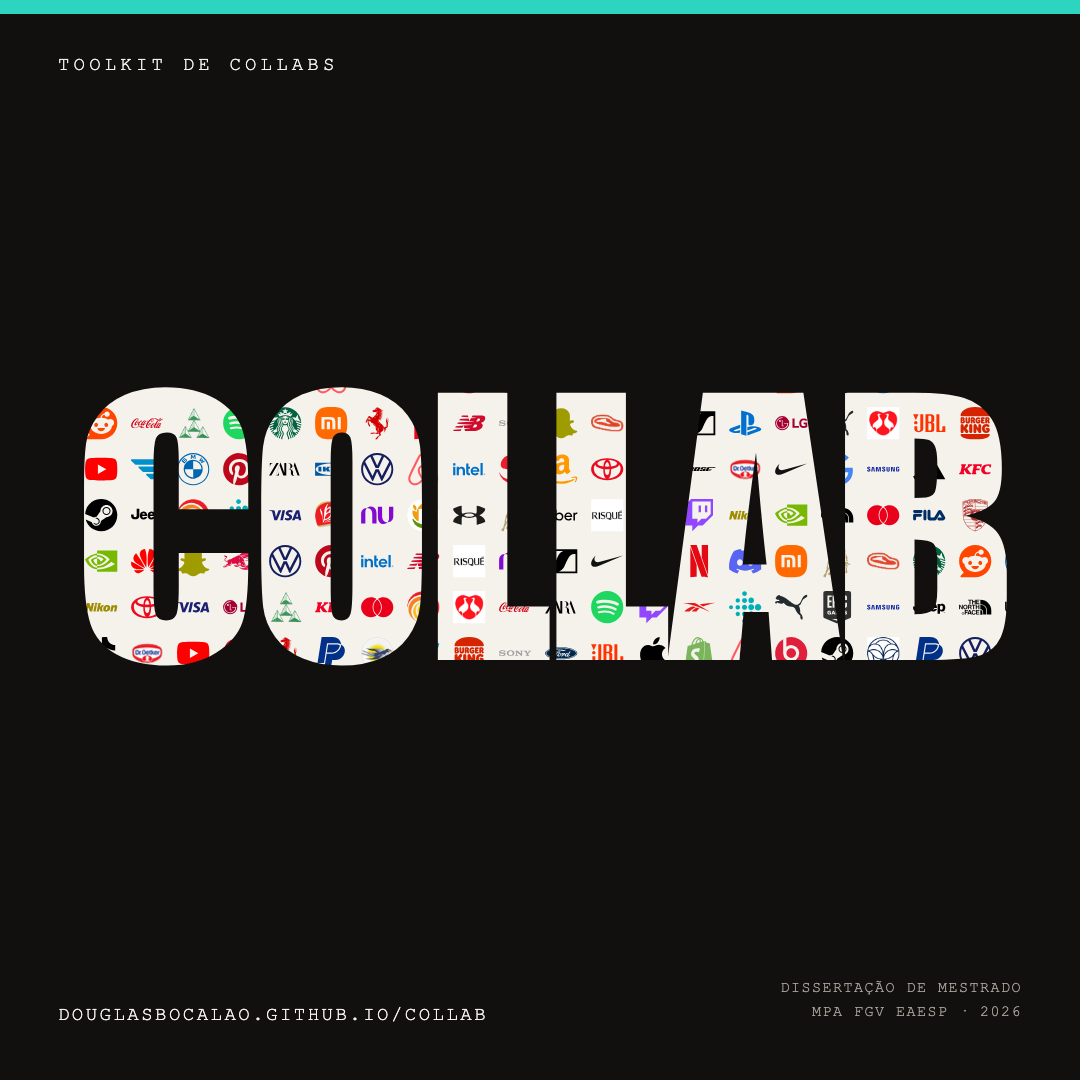
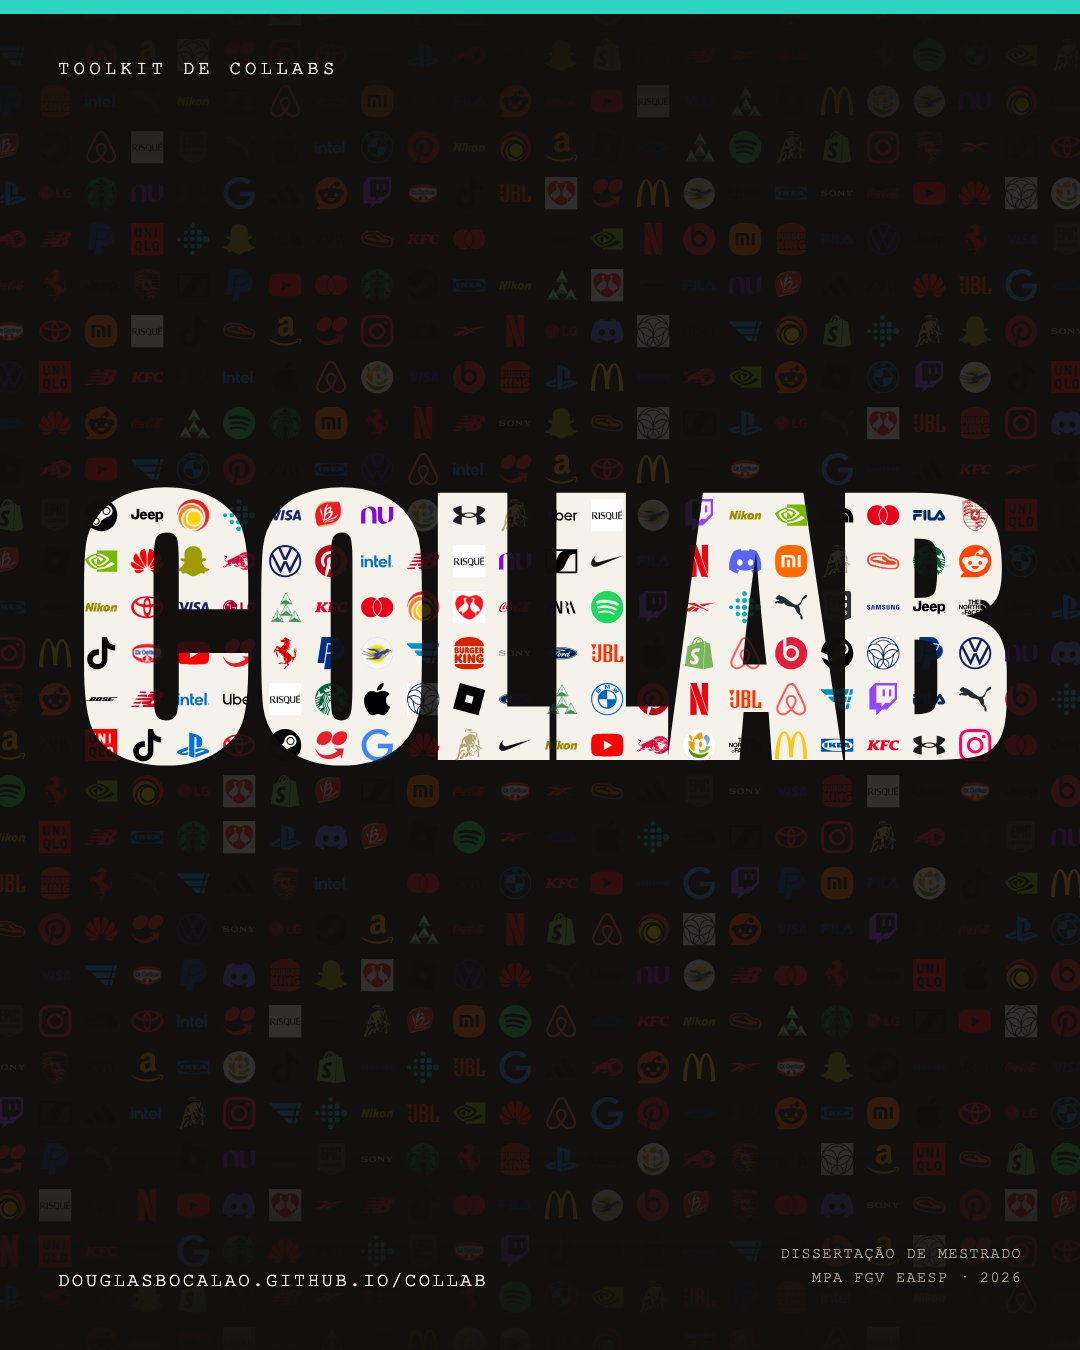
Add files via upload

diff --git a/_fontes/gera_imagem_full.py b/_fontes/gera_imagem_full.py
@@ -9,7 +9,7 @@ def escurece(h,k=.62):
     h=h.lstrip("#"); r,g,b=[int(h[i:i+2],16) for i in (0,2,4)]
     return "#%02X%02X%02X"%(int(r*k),int(g*k),int(b*k))
 
-def build(path, W, H, fsize, baseline, cell, topy, boty, vet, ras):
+def build(path, W, H, fsize, baseline, cell, topy, boty, vet, ras, linhas=None, fundo_op=0):
     random.seed(11)
     FUNDO="#12100E"; LETRA="#F5F2EC"
     defs="".join(f'<image id="r{i}" width="24" height="24" preserveAspectRatio="xMidYMid meet" '
@@ -37,29 +37,32 @@ def build(path, W, H, fsize, baseline, cell, topy, boty, vet, ras):
             x+=cell
         y+=cell
     itens="".join(itens)
+    L=linhas or [("COLLAB", fsize, baseline)]
+    texto="".join(f'<text x="{W/2}" y="{by}" text-anchor="middle" '
+                  f'font-family="Impact,\'Arial Black\',sans-serif" font-size="{fs}" '
+                  f'letter-spacing="-10">{t}</text>' for t,fs,by in L)
     html=f"""<!doctype html><meta charset="utf-8">
 <style>
  html,body{{margin:0;padding:0;background:{FUNDO}}}
  .c{{width:{W}px;height:{H}px;position:relative;overflow:hidden;background:{FUNDO}}}
- .rule{{position:absolute;left:0;top:0;width:100%;height:14px;background:#2DD4BF}}
- .top{{position:absolute;left:58px;top:{topy}px;font-family:"Courier New",monospace;font-size:19px;
+ .rule{{position:absolute;left:0;top:0;width:100%;height:14px;background:#2DD4BF;z-index:3}}
+ .top{{position:absolute;z-index:3;left:58px;top:{topy}px;font-family:"Courier New",monospace;font-size:19px;
       letter-spacing:.22em;text-transform:uppercase;color:#F5F2EC}}
- .meta{{position:absolute;left:58px;right:58px;bottom:{boty}px;display:flex;justify-content:space-between;
+ .meta{{position:absolute;z-index:3;left:58px;right:58px;bottom:{boty}px;display:flex;justify-content:space-between;
        align-items:flex-end;font-family:"Courier New",monospace;font-size:19px;letter-spacing:.13em;
        text-transform:uppercase;color:#F5F2EC}}
  .meta .r{{text-align:right;color:#A6A099;font-size:15px;line-height:1.65;letter-spacing:.1em}}
 </style>
 <div class="c">
+ <div style="position:absolute;z-index:2;inset:0;pointer-events:none;background:linear-gradient(180deg,rgba(18,16,14,.92) 0,rgba(18,16,14,0) 16%,rgba(18,16,14,0) 84%,rgba(18,16,14,.92) 100%)"></div>
  <div class="rule"></div>
  <div class="top">Toolkit de collabs</div>
  <svg width="{W}" height="{H}" viewBox="0 0 {W} {H}" style="position:absolute;left:0;top:0"
       xmlns:xlink="http://www.w3.org/1999/xlink">
   <defs>{defs}
-   <clipPath id="L">
-    <text x="{W/2}" y="{baseline}" text-anchor="middle" font-family="Impact,'Arial Black',sans-serif"
-          font-size="{fsize}" letter-spacing="-10">COLLAB</text>
-   </clipPath>
+   <clipPath id="L">{texto}</clipPath>
   </defs>
+  <g opacity="{fundo_op}">{itens}</g>
   <g clip-path="url(#L)">
    <rect x="0" y="0" width="{W}" height="{H}" fill="{LETRA}"/>{itens}
   </g>
@@ -73,6 +76,6 @@ def build(path, W, H, fsize, baseline, cell, topy, boty, vet, ras):
 
 vet=json.load(io.open(sys.argv[3],encoding="utf-8"))
 ras=json.load(io.open(sys.argv[4],encoding="utf-8"))
-build(sys.argv[1], 1080, 1080, 338, 660, 46, 54, 54, vet, ras)
-build(sys.argv[2], 1200, 630, 268, 408, 38, 42, 38, vet, ras)
+build(sys.argv[1], 1080, 1350, 338, 760, 46, 58, 58, vet, ras, fundo_op=0.13)
+build(sys.argv[2], 1200, 630, 268, 408, 38, 42, 38, vet, ras, fundo_op=0.13)
 print(f"gerado com {len(vet)} vetores + {len(ras)} marcas da pesquisa")
